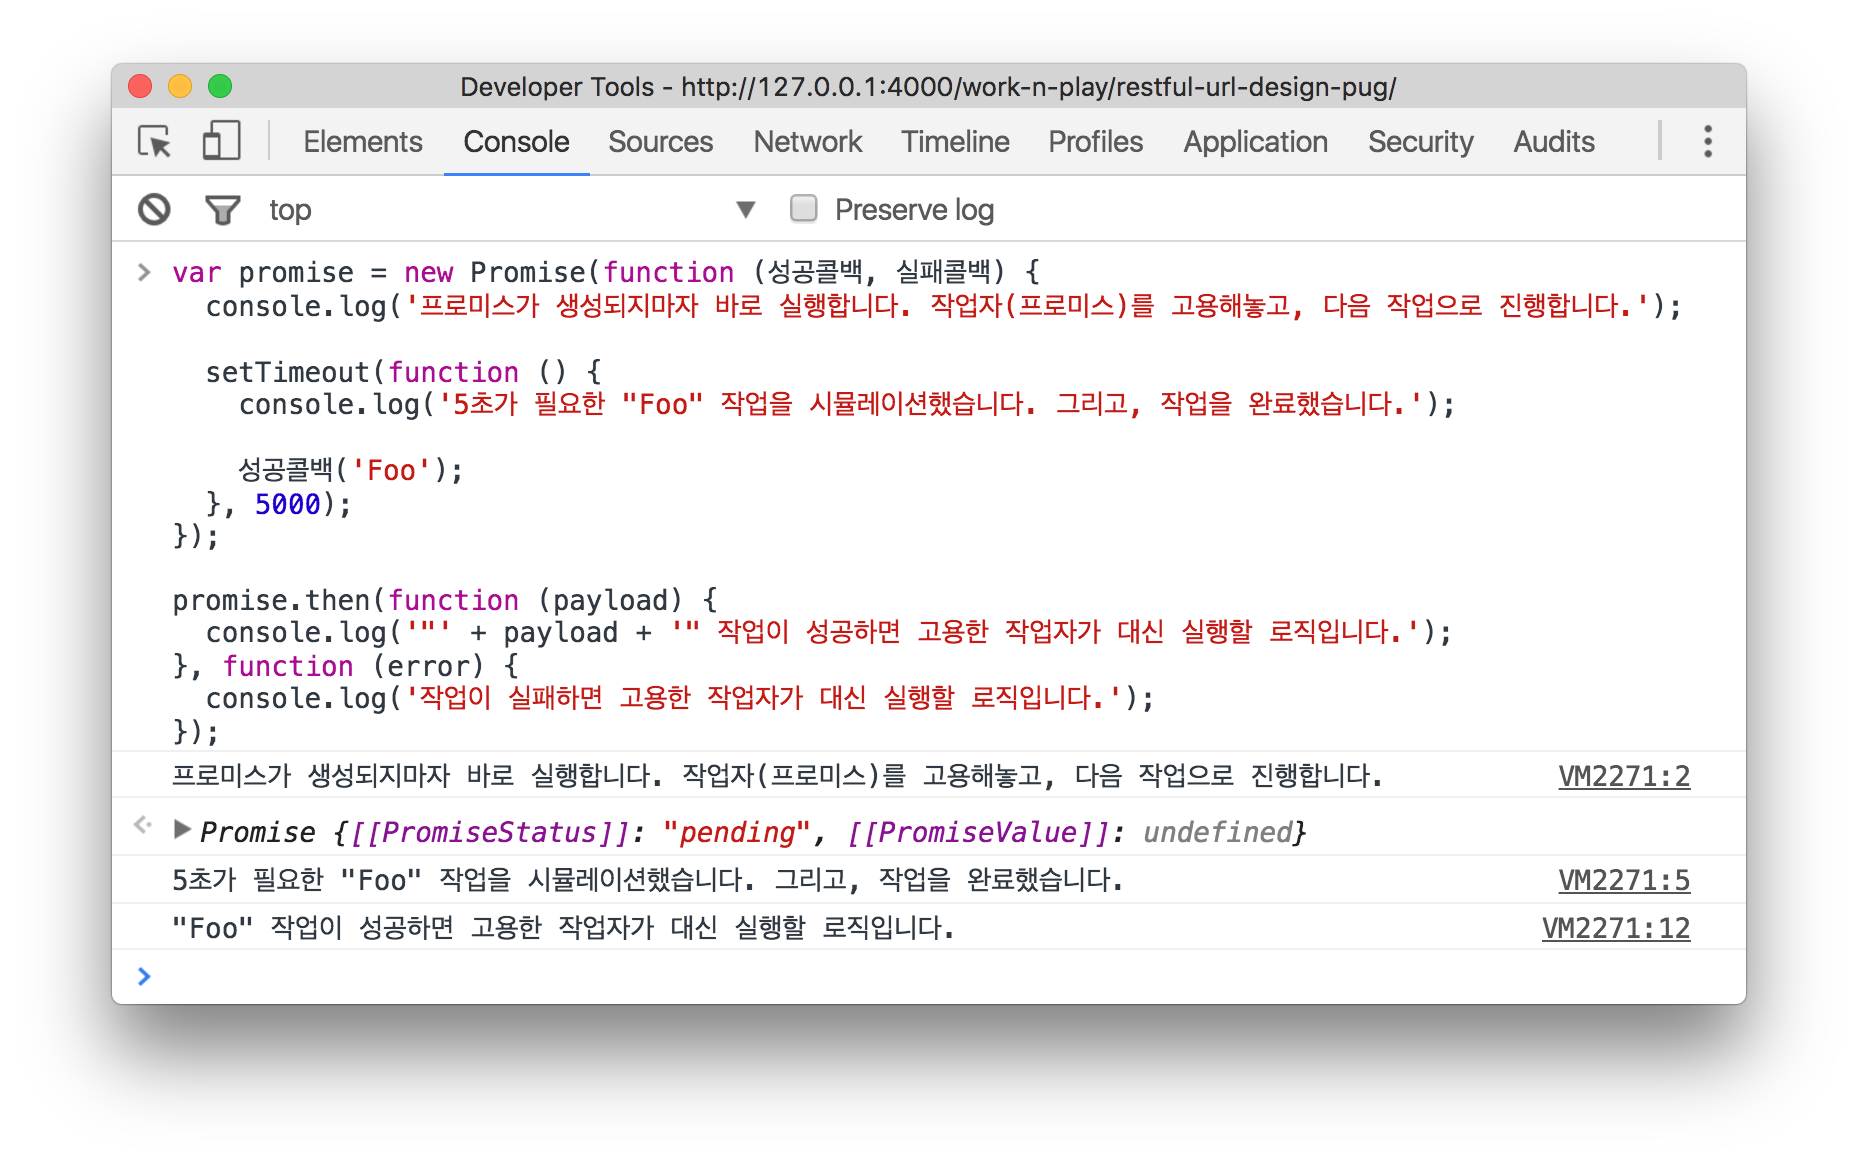
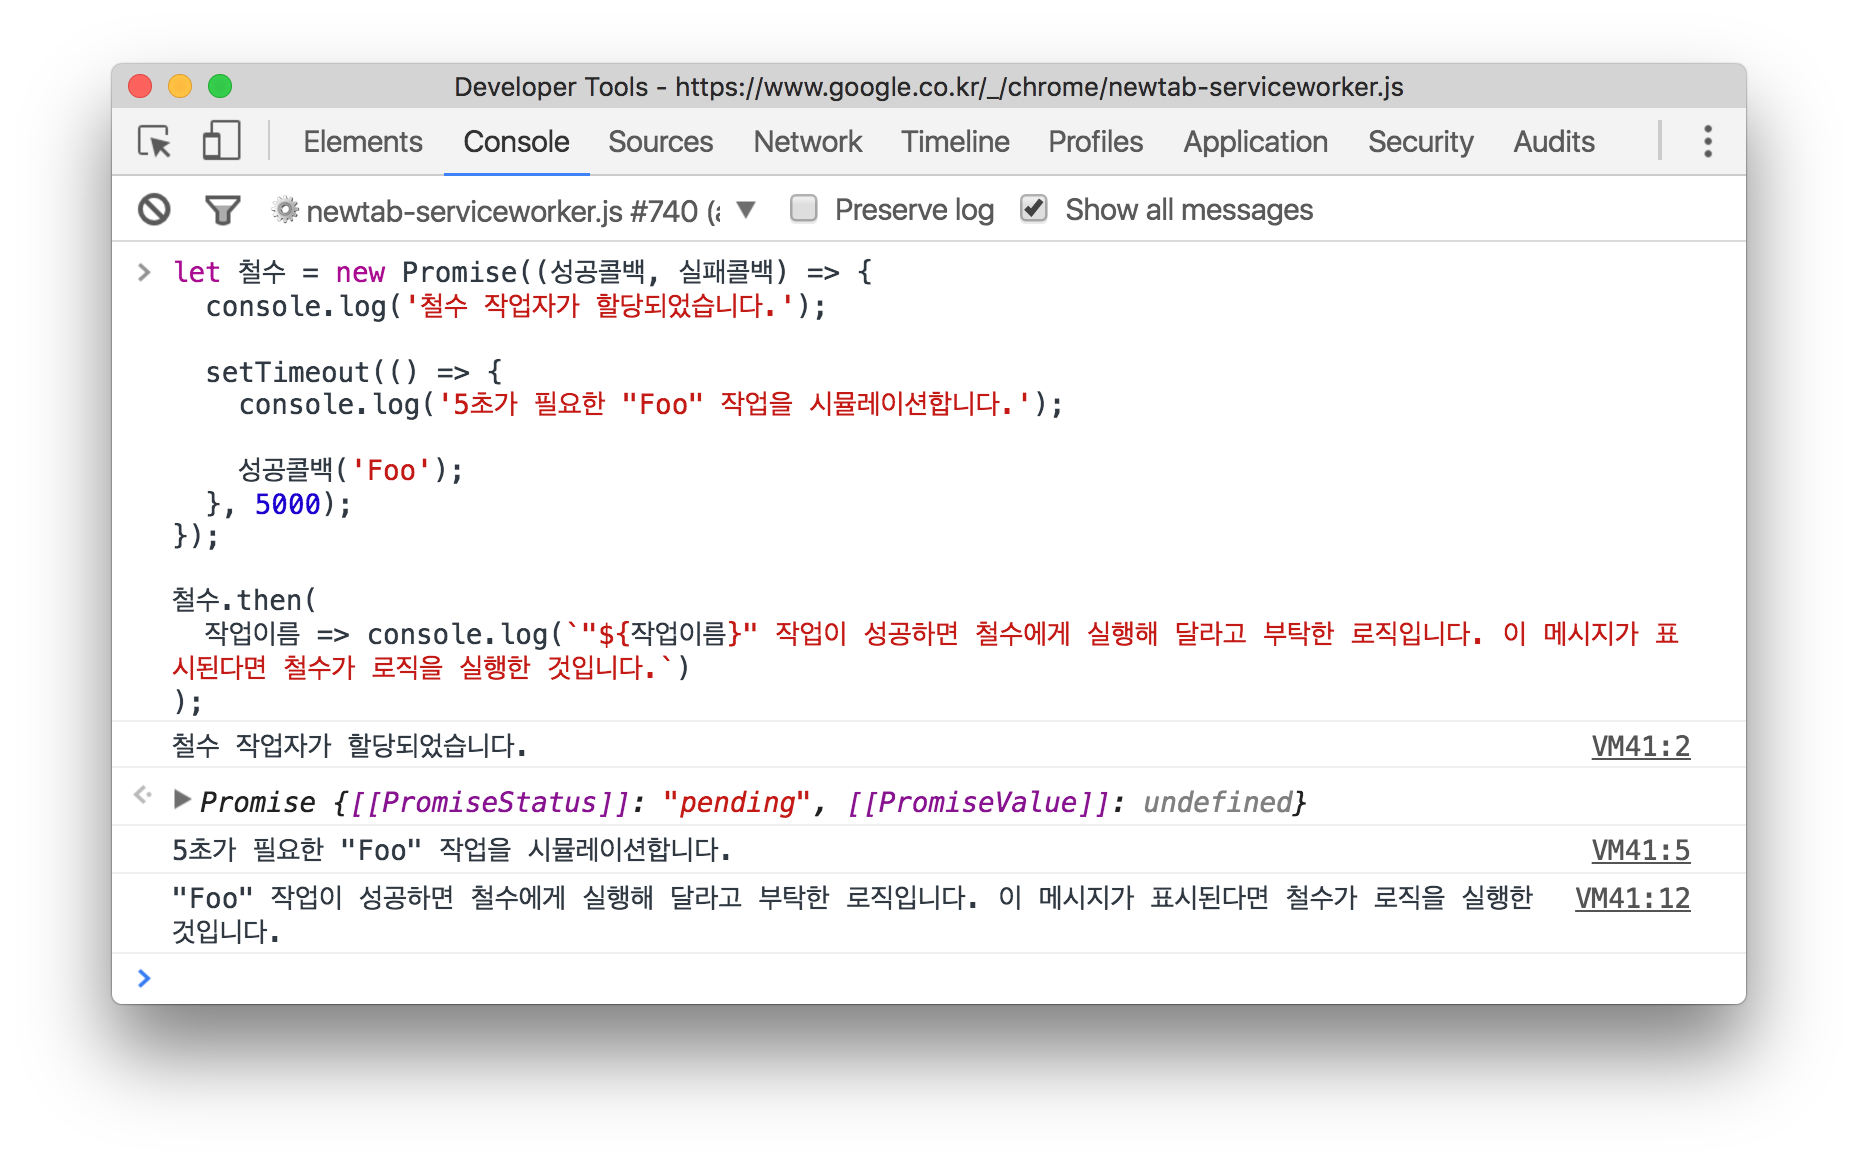
proofread

diff --git a/_posts/2016-08-07-javascript-promise-101.md b/_posts/2016-08-07-javascript-promise-101.md
@@ -9,7 +9,11 @@ tags:
 - javascript
 ---
 
-자바스크립트를 처음 만났을 때, 어려운 개념 중에 하나가 프로미스(Promise)다. 순서대로 실행되는 프로그램에서 시간이 오래 걸리는 작업을 수행하는 동안, 프로미스를 이용하면 해당 작업이 끝날 때까지 기다리지 않고 다음 작업을 바로 진행한다. 대신 작업이 끝나면 그 결과를 가지고 다음 작업(콜백)을 실행할 작업자(프로미스)를 심어 놓는다.
+자바스크립트를 처음 접했을 때 프로미스(Promise)가 어려웠다. 일반적으로 컴퓨터 프로그램은 여러 개의 로직(작업)을 순차적으로 수행한다. 시간이 오래 걸리는 로직이 끼어 있으면 다음 로직은 앞의 로직이 끝나기를 기다려야 한다. 
+
+자바스크립트도 앞서 언급한 것 처럼 순차적으로 실행되지만, 시간이 오래 걸리는 작업은(e.g. 파일 IO, 네트워크 IO), 작업이 끝나면 실행할 콜백을 심어 놓고, 그냥 다음 로직으로 진행한다. 콜백에 콜백을 등록하고, 또 그 콜백에 콜백을 등록하는 "콜백 지옥"을 경험하게 된다. 콜백 지옥을 완화하기 위해 자바스크립트가 제시한 방안이 프로미스다. 
+
+난 프로미스를 임시로 고용한 작업자라고 이해했다. '난 바빠서 다음 일 처리하러 가야 하는데요. 철수님, "Foo" 작업을 대신 좀 봐 주세요. 대략 5초 정도 걸릴거에요. "Foo" 작업이 끝나면 "성공콜백"을 실행해주세요.'
 
 [![Promise](/images/2016-08-07-img-01.png)](/images/2016-08-07-img-01.png)
 
@@ -21,52 +25,51 @@ tags:
 ## 1. Promise
 
 ```javascript
-var promise = new Promise(function (성공콜백, 실패콜백) {
-  console.log('프로미스 객체가 생성되지마자 바로 실행합니다. 작업자(프로미스)를 고용해놓고, 다음 작업으로 진행합니다.');
+var 철수 = new Promise(function (성공콜백, 실패콜백) {
+  console.log('철수 작업자가 할당되었습니다.');
   
   setTimeout(function () {
-    console.log('5초가 필요한 "Foo" 작업을 시뮬레이션했습니다. 그리고, 작업을 완료했습니다.');
+    console.log('5초가 필요한 "Foo" 작업을 시뮬레이션합니다.');
     
     성공콜백('Foo');
   }, 5000);
 });
 
-promise.then(function (payload) {
-  console.log('"' + payload + '" 작업이 성공하면 고용한 작업자가 대신 실행할 로직입니다.');
-}, function (error) {
-  console.log('작업이 실패하면 고용한 작업자가 대신 실행할 로직입니다.');
+철수.then(function (작업이름) {
+  console.log('"' + 작업이름 + '" 작업이 성공하면 철수에게 실행해 달라고 부탁한 로직입니다. 이 메시지가 표시된다면 철수가 로직을 실행한 것입니다.');
 });
 ```
 
-`Promise` 클래스는 `then()` API를 가지고 있고, 함수를 인자로 받는데, 다시 그 함수는 성공과 실패 콜백을 인자로 받는다. 
+`철수`는 `Promise` 클래스의 인스턴스다. `Promise` 클래스는 `then()` API를 가지고 있고, 함수를 인자로 받는다. 인자로 받은 함수는 다시 성공 또는 실패했을 때 실행할 콜백을 인자로 받는다. 
+
+자바스크립트는 개발자가 제어할 수 없는 클라이언트에서 작동하고, 클라이언트 측의 인코딩때문에 어떤 문제가 발생할 지 전혀 예측할 수 없다. 실무에서 한글 코딩은 비추한다.
 
 ## 2. ES6
 
+똑같은 코드를 ES6로 쓰면,
+
 ```javascript
-let promise = new Promise((성공콜백, 실패콜백) => {
-  console.log('프로미스 객체가 생성되지마자 바로 실행합니다. 작업자(프로미스)를 고용해놓고, 다음 작업으로 진행합니다.');
+let 철수 = new Promise((성공콜백, 실패콜백) => {
+  console.log('철수 작업자가 할당되었습니다.');
   
   setTimeout(() => {
-    console.log('5초가 필요한 "Foo" 작업을 시뮬레이션했습니다. 그리고, 작업을 완료했습니다.');
+    console.log('5초가 필요한 "Foo" 작업을 시뮬레이션합니다.');
     
     성공콜백('Foo');
   }, 5000);
 });
 
-promise.then(
-  payload => console.log(`"${payload}" 작업이 성공하면 고용한 작업자가 대신 실행할 로직입니다.`), 
-  error => console.log('작업이 실패하면 고용한 작업자가 대신 실행할 로직입니다.')
+철수.then(
+  작업이름 => console.log(`"${작업이름}" 작업이 성공하면 철수에게 실행해 달라고 부탁한 로직입니다. 이 메시지가 표시된다면 철수가 로직을 실행한 것입니다.`)
 );
 ```
 
-자바스크립트는 개발자가 제어할 수 없는 클라이언트에서 작동하고, 클라이언트 측의 인코딩때문에 어떤 문제가 발생할 지 예측할 수 없기 때문에 실무에서 한글 코딩은 절대 비추한다.
-
-오늘 아침에서 Coffee 스크립트를 많이 사용하는 프레임워크 모임에 다녀왔는데, 이제 Coffee를 더 이상 쓸 이유가 없을 것 같다. 뿐만아니라 나를 괴롭히던 `Prototype`등은 이제 `class`, `constructor`, `static` 등 항상 쓰던 문법으로 완전히 교체되어 자바스크립트도 언어라는 느낌이 든다.
+오늘도 Coffee 스크립트를 많이 사용하는 프레임워크 모임에 다녀왔는데, 이제 Coffee를 쓸 이유가 없다. ES6가 Coffee의 문법을 거의 대부분 채택하고 있기 때문이다. 그림에서 보다시피 최신 브라우저에서는 ES6 -> ES5 컴파일하지 않고도 최신 문법이 작동한다<small>(내 최신 브라우저에서 작동한다고, 다른 이의 브라우저에서 작동한다고 보장할 수 없으므로 아직은 컴파일해야 한다)</small>. `Prototype`등 익숙치 않은 개념은 이제 `class`, `constructor`, `static` 등 다른 언어에서 항상 쓰던 문법으로 교체되었다.
 
 ## 3. 결론
 
-자고 일어나면 새로운 기술이 나오는 시대에서 풀 스택 웹 개발자로 살아 가기란 힘들다. 나처럼 서버 사이드에서 시작한 사람이 자바스크립트를 익힐 때 가장 먼저 만난 벽은 이벤트 프로그래밍이었고([블로킹 vs 논-블로킹 IO, Sync vs Async](http://laravel.io/bin/zjvNv)), 그 중에서도 프로미스였다. 어쨌든 이 포스트는 내가 프로미스를 이해한 내용에 대한 정리다.
+자고 일어나면 새로운 기술이 나오는 시대에서 풀 스택 웹 개발자로 살아가기란 힘들다. 나처럼 서버 사이드에서 시작한 사람이 자바스크립트를 익힐 때 가장 먼저 만난 벽은 이벤트 프로그래밍이었고([블로킹 vs 논-블로킹 IO, Sync vs Async](http://laravel.io/bin/zjvNv)), 그 중에서도 프로미스였다. 이 포스트는 나만의 프로미스 이해 방식을 정리한 것이다.
 
-프런트엔드를 잘 모르지만, 풀스택 개발자를 지향하는 후배들이 조언을 요청하면 요즘은 항상 이렇게 답해준다. 2016년에 배워야 할 프런트 엔드 기술은 1) [Vue.js](http://vuejs.org/), 2) [ES6](http://es6-features.org)라고.
+풀스택 개발자를 지향하는 후배들이 조언을 요청하면 요즘은 항상 이렇게 답해준다. 2016년에 배워야 할 프런트 엔드 기술은 1) [ES6](http://es6-features.org) 2) 본문에 언급은 없었지만, 제이쿼리에서 [Vue.js](http://vuejs.org/)등 양방향 데이터 바인딩을 지원하는 라이브러리로 마이그레이션하는 것, 두 가지라고. 여유가 된다면 3) 빌드 시스템과 4) 태스크 러너도 배우면 좋다. 
 
-다행히 내가 주력으로 하는 라라벨은 [Webpack](https://webpack.github.io/) 빌드시스템과, [Gulp](http://gulpjs.com/) 태스크 러너를 사용해서 다행히 두 개의 짐은 덜었다.  
+다행히 내가 주력으로 하는 라라벨 웹 프레임워크는 [Webpack](https://webpack.github.io/) 빌드 시스템과, [Gulp](http://gulpjs.com/) 태스크 러너를 기본으로 사용하고 있어 두 개의 짐은 덜었다.  
